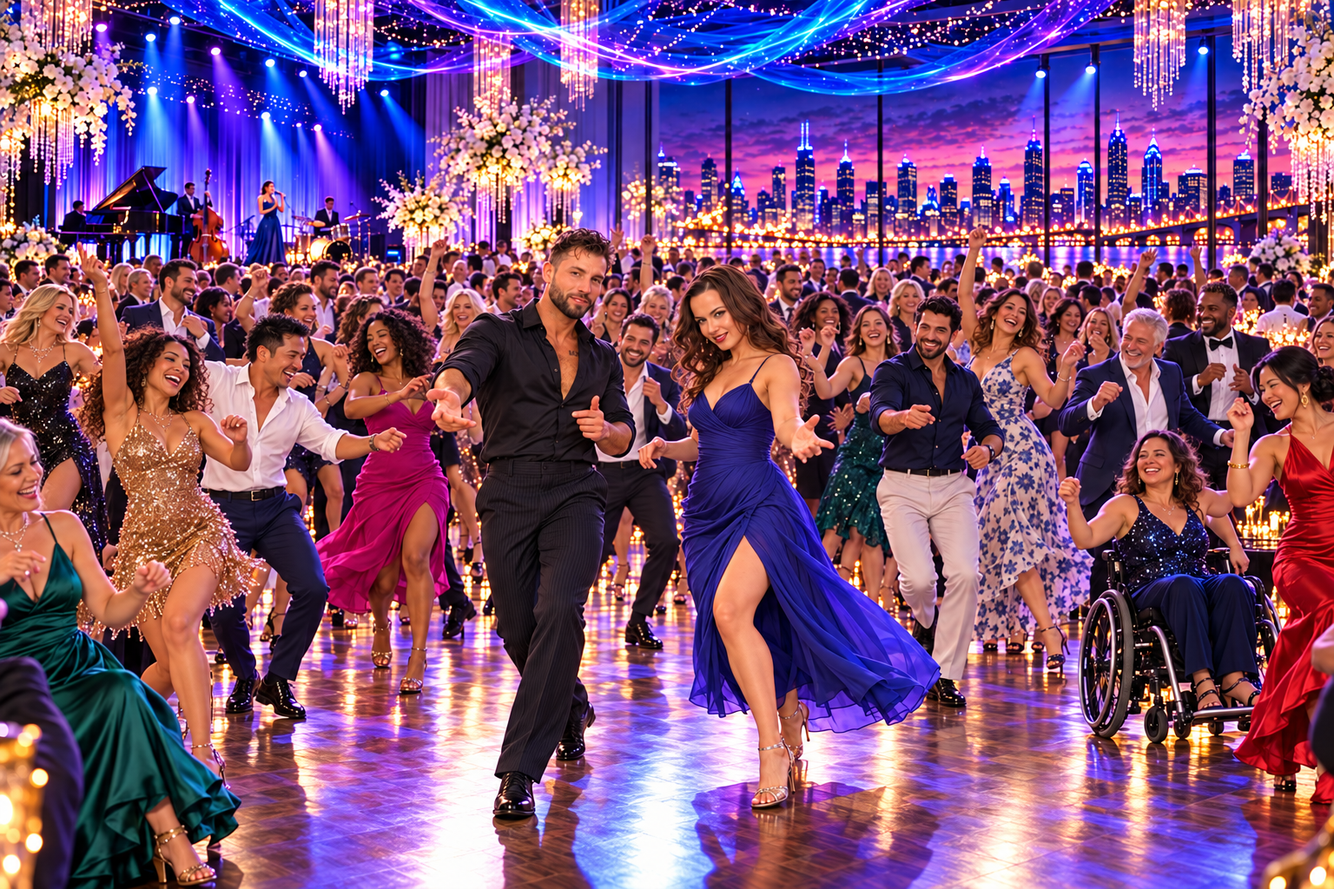
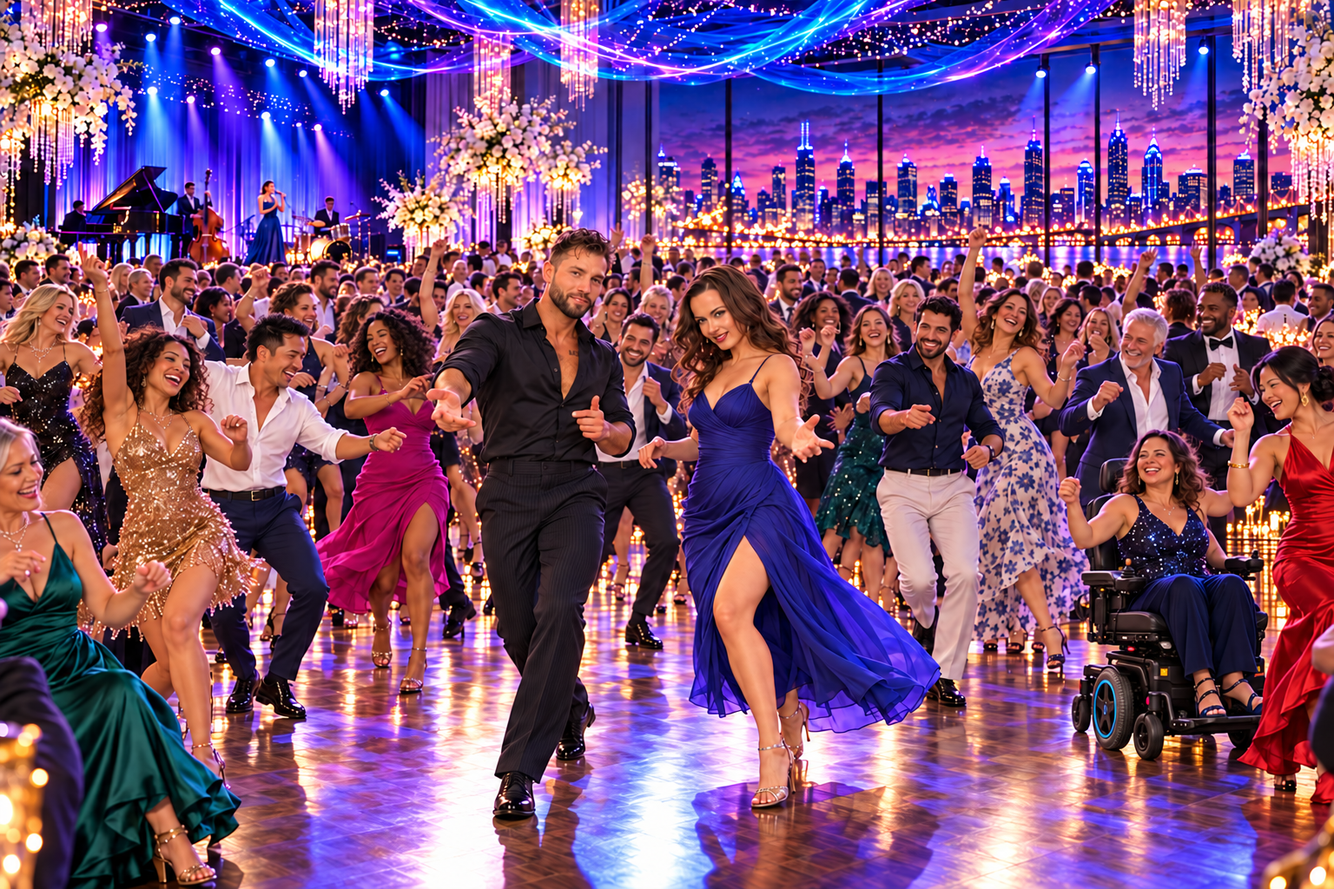
Replace section 6 dance party image
Claude-Session: https://claude.ai/code/session_01SDuMShRTmDhf1bS4TY8nhA

diff --git a/how-it-works.html b/how-it-works.html
@@ -1,1 +1,1 @@
-<!doctype html><html lang="en"><head><meta charset="utf-8"><meta name="viewport" content="width=device-width,initial-scale=1"><title>How It Works · Dancing to Beat ALS</title><style>*{box-sizing:border-box}html{scroll-behavior:smooth}body{margin:0;font:15px/1.65 'Segoe UI',sans-serif}main{max-width:1220px;margin:38px auto;padding:0 28px}.eyebrow{font-size:11px;letter-spacing:2px;font-weight:750}h1{font:clamp(34px,4vw,49px)/1.15 Georgia,serif;margin:12px 0 15px;max-width:850px}.flow-intro{max-width:800px;font-size:16px;color:#64708c}.flow-nav{display:grid;grid-template-columns:repeat(6,minmax(0,1fr));gap:12px;margin:28px 0 36px}.flow-nav a{font-size:12px;color:#47529e;text-decoration:none;border:1px solid #d4d9ef;background:#fff;border-radius:8px;padding:12px;display:flex;gap:8px;align-items:center}.flow-nav span,.flow-stage-label span{display:grid;place-items:center;width:26px;height:26px;flex-shrink:0;border-radius:50%;background:#ebeafd;color:#5543ad;font-weight:750}.flow-stage{display:grid;grid-template-columns:1fr 1.15fr;gap:36px;align-items:center;margin:25px 0 45px;padding-bottom:40px;border-bottom:1px solid #dce1f1;scroll-margin-top:20px}.flow-stage:nth-of-type(even) .flow-art{order:2}.flow-art{border-radius:13px;overflow:hidden;background:#101b3c;box-shadow:0 12px 35px #25346b18;line-height:0}.flow-art img{width:100%;aspect-ratio:3/2;object-fit:cover;display:block}.flow-stage-label{display:flex;align-items:center;gap:10px;font-size:11px;text-transform:uppercase;letter-spacing:1.3px;font-weight:750;color:#6543b2}.flow-copy h2{font:30px/1.2 Georgia,serif;margin:12px 0}.flow-copy p,.flow-copy li{font-size:14px;color:#52617e}.flow-copy ul{padding-left:20px}.flow-copy li{margin:7px 0}.flow-copy .flow-small{font-size:12px;color:#64708c}.flow-link{font-weight:650;font-size:13px}.proposal{display:inline-block;background:#f5ecfa;color:#674186!important;border:1px solid #e5d6ef;padding:5px 10px;border-radius:6px;font-size:11px!important}.flow-cta{padding:26px;border-radius:12px;background:linear-gradient(110deg,#15275c,#55318e);color:white;margin:25px 0}.flow-cta h2{color:white;font:29px Georgia,serif;margin:0 0 12px}.flow-cta a{display:inline-block;background:#fff;color:#3449a9;text-decoration:none;border-radius:6px;padding:10px 18px;font-size:13px;font-weight:650;margin:5px 10px 5px 0}footer{font-size:11px;color:#64708c;margin:25px 0}@media(max-width:850px){.flow-nav{grid-template-columns:repeat(2,1fr)}.flow-stage{grid-template-columns:1fr;gap:22px}.flow-stage:nth-of-type(even) .flow-art{order:0}.flow-art img{max-height:370px}.flow-copy h2{font-size:27px}}@media(prefers-reduced-motion:reduce){html{scroll-behavior:auto}}.showcase-panel{display:grid;grid-template-columns:1.4fr 1fr;gap:28px;align-items:center;padding:25px;border:1px solid #d1d7ef;background:linear-gradient(125deg,#edf1ff,#f6edfc);border-radius:14px;margin:15px 0 45px}.showcase-image{border-radius:10px;overflow:hidden;line-height:0;box-shadow:0 10px 30px #25346b18}.showcase-image img{width:100%;height:auto;display:block}.showcase-copy h2{font:30px/1.2 Georgia,serif;margin:12px 0}.showcase-copy>p{font-size:14px;color:#52617e}.showcase-copy .flow-small{font-size:11px;color:#64708c}.showcase-copy .eyebrow{font-size:10px}.showcase-screen{background:#101c49;color:#fff;border-radius:8px;padding:16px;margin-top:16px}.showcase-screen span{display:block;font-size:10px;text-transform:uppercase;letter-spacing:1px;color:#b4c7ff}.showcase-screen strong{display:block;font:23px Georgia,serif;margin:5px 0}.showcase-screen p{font-size:12px;color:#e1e7ff;margin:5px 0}@media(max-width:850px){.showcase-panel{grid-template-columns:1fr;padding:18px}}</style><link rel="stylesheet" href="theme.css?v=electric-palette-v5"><link rel="stylesheet" href="tickets.css?v=2"><script src="review-data.js"></script></head><body><header><img class="event-banner" src="event-header.png?v=panoramic-v2" alt="Dancing to Beat ALS — ballroom couple with electric blue and purple light trails and a glowing city skyline"><div class="header-bar"><div class="brand">DANCING TO BEAT ALS<small>MOVE TOGETHER. MAKE A DIFFERENCE.</small></div><a href="home.html">Home</a><a href="registration.html">Register a Team</a><a href="donate.html">Donate</a><a href="faq.html">FAQ</a><a href="about.html">About</a><a href="tickets.html">Tickets &amp; Tables</a></div></header><main><div class="eyebrow">FROM YOUR FIRST FUNDRAISER TO THE FINAL BOW.</div><h1>A shared purpose.<br>A journey to the dance floor.</h1><p class="flow-intro">Dancing to Beat ALS starts long before gala night. Follow the journey from building a team and rallying supporters to preparing finalists, celebrating together, and ending the night on the dance floor.</p><nav class="flow-nav" aria-label="Event stages"><a href="#fundraising"><span>1</span>Team fundraising</a><a href="#selection"><span>2</span>Finalist selection</a><a href="#training"><span>3</span>Finalist training</a><a href="#gala"><span>4</span>Dancing to Beat ALS Gala</a><a href="#competition"><span>5</span>Dance competition &amp; awards</a><a href="#dance-party"><span>6</span>Group lesson &amp; dance party</a></nav><section class="flow-stage" id="fundraising"><div class="flow-art"><img src="flow-fundraising.png" alt="Team members gathering around a laptop to rally support for their ALS fundraiser" loading="lazy"></div><div class="flow-copy"><div class="flow-stage-label"><span>1</span>Team fundraising</div><h2>Pick your beneficiary. Form your team. Rally your people.</h2><p>Choose your Team Sponsor, introduce your dancing candidate, and select an ALS beneficiary. Set your fundraising goal and invite friends, family, colleagues, and your wider community to get involved.</p><ul><li>Your sponsor determines your division: Enterprise, Discovery, Reach, or Grassroots.</li><li>Choose Team Entry or the Team &amp; Gala Package where available.</li><li>Team-raised gifts are designated to support the team’s chosen ALS beneficiary and are granted under the Foundation’s grant policy. Any fees will be disclosed before launch. Dance Card fees and table upgrades do not count toward fundraising.</li></ul><a class="flow-link" href="registration.html">Start your team →</a></div></section><section class="flow-stage" id="selection"><div class="flow-art"><img src="flow-selection.png?v=3" alt="A host presenting a finalist selection screen of division-leading teams and fundraising totals, beside a clear box of Draw entries" loading="lazy"></div><div class="flow-copy"><div class="flow-stage-label"><span>2</span>Finalist selection</div><h2>Eight dancers selected to compete.</h2><p>After 12 weeks of fundraising, eight teams earn a place in the gala-night ballroom competition. Each finalist’s dancer partners with a professional.</p><ul><li><strong>4 Division Champions:</strong> the top fundraiser in each division</li><li><strong>3 Draw winners:</strong> teams earn Draw entries by hitting fundraising milestones</li><li><strong>1 Catalyst’s Choice:</strong> a high-impact team or community member, selected by the organizing committee</li></ul><p class="proposal">Proposed format · pending confirmation and legal review</p><a class="flow-link" href="faq.html">Explore selection questions →</a></div></section><section class="flow-stage" id="training"><div class="flow-art"><img src="flow-training.png" alt="A coach helping dancers rehearse, with inclusive partner practice in the background" loading="lazy"></div><div class="flow-copy"><div class="flow-stage-label"><span>3</span>Finalist training</div><h2>From first lesson to gala night.</h2><p style="font:italic 18px/1.4 Georgia,serif;color:#6345ad;margin:-4px 0 12px">Turn your courage into confidence.</p><p>Each finalist dancer is paired with a professional dance trainer, arranged by the event organizers. Over about eight weeks of lessons and rehearsals, they learn a routine together and get ready to perform it at the gala.</p><ul><li>No dance experience needed</li><li>Training adapted to every ability and experience level</li><li>Planned with accessibility in mind</li></ul><p class="proposal">Training schedule and details to be announced</p></div></section><section class="flow-stage" id="gala"><div class="flow-art"><img src="flow-gala.png?v=2" alt="A guest in a power wheelchair shares his story on stage at the gala, shown on a large screen about AI assistive technology, as hosts and a seated audience look on" loading="lazy"></div><div class="flow-copy"><div class="flow-stage-label"><span>4</span>Dancing to Beat ALS Gala</div><h2>One night. The whole ALS community.</h2><p>People living with ALS, families and caregivers, researchers and clinicians, advocates, businesses and neighbors come together for one unforgettable evening.</p><ul><li>Moving and entertaining stories from across the ALS community, shared in short vignettes throughout the night</li><li>Every team present takes the floor: in the Grand Promenade, the showcase group dance or the competition</li><li>A livestream is planned so supporters everywhere can join in</li></ul><p class="flow-small">Event date, venue and running order will be announced.</p><a class="flow-link" href="faq.html">Tickets, seating and showcase questions →</a></div></section><section class="showcase-panel" id="on-the-dance-floor"><div class="showcase-image"><a href="flow-showcase.png" target="_blank" rel="noopener" aria-label="View the gala dance-floor illustration at full size"><img src="flow-showcase.png" loading="lazy" alt="Gala group number with two featured couples in the center, surrounding dancers, a team spotlight screen above the stage, and television cameras around the floor"></a></div><div class="showcase-copy"><div class="eyebrow">ON THE DANCE FLOOR · ON THE NATIONAL STAGE</div><h2>Every team has a moment.</h2><p>A group number brings the floor to life, while featured couples take center stage. The screen tells the story behind the dance: the team, the dancer, the beneficiary, and the funds raised.</p><p>We’re planning a livestream so supporters everywhere can share the performances and the energy of the gala.</p><div class="showcase-screen"><span>Illustrative team spotlight</span><strong>Hope in Motion</strong><p>Dancer: Maya Bennett<br>Beneficiary: ALS Catalyst Foundation<br>Amount raised: $27,500</p></div><p class="flow-small">Fictitious team and fundraising amount shown for illustration. Production, choreography, and the final running order will be confirmed.</p></div></section><section class="flow-stage" id="competition"><div class="flow-art"><img src="flow-competition.png?v=2" alt="A ballroom couple dancing under blue and purple lights while judges hold up score paddles and the gala audience applauds" loading="lazy"></div><div class="flow-copy"><div class="flow-stage-label"><span>5</span>Dance competition & awards</div><h2>Fun, friendly and full of heart.</h2><p style="font:italic 18px/1.4 Georgia,serif;color:#6345ad;margin:-4px 0 12px">For one night, ALS doesn’t set the tempo. We do.</p><p>Eight finalists take the floor with their professional partners in a friendly, entertaining ballroom competition. Every routine celebrates the dancer, the team behind them and the ALS community they’re dancing for.</p><p>Celebrity judge Allen Genkin, who competed on <em>Dancing with the Stars: The Next Pro</em>, will be on the panel.</p><p class="proposal">Additional judges to be announced</p><a class="flow-link" href="faq.html">Competition questions →</a></div></section><section class="flow-stage" id="dance-party"><div class="flow-art"><img src="flow-dance-party.png?v=2" alt="Two dance instructors leading a crowded ballroom of smiling gala guests, including a guest dancing in a wheelchair, with a live band and city skyline behind them" loading="lazy"></div><div class="flow-copy"><div class="flow-stage-label"><span>6</span>Group dance lesson &amp; dance party</div><h2>The night ends with everyone dancing.</h2><p>Now it’s your turn. A planned group dance lesson gets everyone moving, then the celebration keeps going with a dance party for all guests.</p><ul><li>Learn a few easy steps together, then make them your own.</li><li>Some guests will follow every move. Some will find their own rhythm. Everyone can enjoy the moment.</li><li>From cocktail dresses to shirtsleeves, the floor fills with gala guests smiling, laughing, and dancing together.</li></ul><p class="flow-small">No dance experience required. The final music, lesson format, accessibility arrangements, and timing will be confirmed. Image is an illustrative event visualization.</p><a class="flow-link" href="registration.html">Be part of the celebration →</a></div></section><section class="flow-cta"><h2>Ready to make your move?</h2><a href="tickets.html" data-open-tickets>Purchase Tickets →</a><a href="registration.html">Register a Team →</a><a href="donate.html">Make a Donation →</a><a href="faq.html">Frequently Asked Questions →</a></section><footer>Event overview · Unconfirmed dates, training arrangements, and proposed competition rules will be updated as details are finalized. Local mockup payments and emails are simulated.</footer></main><script src="tickets.js?v=3" defer></script><p style="text-align:center;padding:12px;font:12px sans-serif">Committee review mockup · Payments and emails are simulated. Test registrations stay in this browser.</p></body></html>
+<!doctype html><html lang="en"><head><meta charset="utf-8"><meta name="viewport" content="width=device-width,initial-scale=1"><title>How It Works · Dancing to Beat ALS</title><style>*{box-sizing:border-box}html{scroll-behavior:smooth}body{margin:0;font:15px/1.65 'Segoe UI',sans-serif}main{max-width:1220px;margin:38px auto;padding:0 28px}.eyebrow{font-size:11px;letter-spacing:2px;font-weight:750}h1{font:clamp(34px,4vw,49px)/1.15 Georgia,serif;margin:12px 0 15px;max-width:850px}.flow-intro{max-width:800px;font-size:16px;color:#64708c}.flow-nav{display:grid;grid-template-columns:repeat(6,minmax(0,1fr));gap:12px;margin:28px 0 36px}.flow-nav a{font-size:12px;color:#47529e;text-decoration:none;border:1px solid #d4d9ef;background:#fff;border-radius:8px;padding:12px;display:flex;gap:8px;align-items:center}.flow-nav span,.flow-stage-label span{display:grid;place-items:center;width:26px;height:26px;flex-shrink:0;border-radius:50%;background:#ebeafd;color:#5543ad;font-weight:750}.flow-stage{display:grid;grid-template-columns:1fr 1.15fr;gap:36px;align-items:center;margin:25px 0 45px;padding-bottom:40px;border-bottom:1px solid #dce1f1;scroll-margin-top:20px}.flow-stage:nth-of-type(even) .flow-art{order:2}.flow-art{border-radius:13px;overflow:hidden;background:#101b3c;box-shadow:0 12px 35px #25346b18;line-height:0}.flow-art img{width:100%;aspect-ratio:3/2;object-fit:cover;display:block}.flow-stage-label{display:flex;align-items:center;gap:10px;font-size:11px;text-transform:uppercase;letter-spacing:1.3px;font-weight:750;color:#6543b2}.flow-copy h2{font:30px/1.2 Georgia,serif;margin:12px 0}.flow-copy p,.flow-copy li{font-size:14px;color:#52617e}.flow-copy ul{padding-left:20px}.flow-copy li{margin:7px 0}.flow-copy .flow-small{font-size:12px;color:#64708c}.flow-link{font-weight:650;font-size:13px}.proposal{display:inline-block;background:#f5ecfa;color:#674186!important;border:1px solid #e5d6ef;padding:5px 10px;border-radius:6px;font-size:11px!important}.flow-cta{padding:26px;border-radius:12px;background:linear-gradient(110deg,#15275c,#55318e);color:white;margin:25px 0}.flow-cta h2{color:white;font:29px Georgia,serif;margin:0 0 12px}.flow-cta a{display:inline-block;background:#fff;color:#3449a9;text-decoration:none;border-radius:6px;padding:10px 18px;font-size:13px;font-weight:650;margin:5px 10px 5px 0}footer{font-size:11px;color:#64708c;margin:25px 0}@media(max-width:850px){.flow-nav{grid-template-columns:repeat(2,1fr)}.flow-stage{grid-template-columns:1fr;gap:22px}.flow-stage:nth-of-type(even) .flow-art{order:0}.flow-art img{max-height:370px}.flow-copy h2{font-size:27px}}@media(prefers-reduced-motion:reduce){html{scroll-behavior:auto}}.showcase-panel{display:grid;grid-template-columns:1.4fr 1fr;gap:28px;align-items:center;padding:25px;border:1px solid #d1d7ef;background:linear-gradient(125deg,#edf1ff,#f6edfc);border-radius:14px;margin:15px 0 45px}.showcase-image{border-radius:10px;overflow:hidden;line-height:0;box-shadow:0 10px 30px #25346b18}.showcase-image img{width:100%;height:auto;display:block}.showcase-copy h2{font:30px/1.2 Georgia,serif;margin:12px 0}.showcase-copy>p{font-size:14px;color:#52617e}.showcase-copy .flow-small{font-size:11px;color:#64708c}.showcase-copy .eyebrow{font-size:10px}.showcase-screen{background:#101c49;color:#fff;border-radius:8px;padding:16px;margin-top:16px}.showcase-screen span{display:block;font-size:10px;text-transform:uppercase;letter-spacing:1px;color:#b4c7ff}.showcase-screen strong{display:block;font:23px Georgia,serif;margin:5px 0}.showcase-screen p{font-size:12px;color:#e1e7ff;margin:5px 0}@media(max-width:850px){.showcase-panel{grid-template-columns:1fr;padding:18px}}</style><link rel="stylesheet" href="theme.css?v=electric-palette-v5"><link rel="stylesheet" href="tickets.css?v=2"><script src="review-data.js"></script></head><body><header><img class="event-banner" src="event-header.png?v=panoramic-v2" alt="Dancing to Beat ALS — ballroom couple with electric blue and purple light trails and a glowing city skyline"><div class="header-bar"><div class="brand">DANCING TO BEAT ALS<small>MOVE TOGETHER. MAKE A DIFFERENCE.</small></div><a href="home.html">Home</a><a href="registration.html">Register a Team</a><a href="donate.html">Donate</a><a href="faq.html">FAQ</a><a href="about.html">About</a><a href="tickets.html">Tickets &amp; Tables</a></div></header><main><div class="eyebrow">FROM YOUR FIRST FUNDRAISER TO THE FINAL BOW.</div><h1>A shared purpose.<br>A journey to the dance floor.</h1><p class="flow-intro">Dancing to Beat ALS starts long before gala night. Follow the journey from building a team and rallying supporters to preparing finalists, celebrating together, and ending the night on the dance floor.</p><nav class="flow-nav" aria-label="Event stages"><a href="#fundraising"><span>1</span>Team fundraising</a><a href="#selection"><span>2</span>Finalist selection</a><a href="#training"><span>3</span>Finalist training</a><a href="#gala"><span>4</span>Dancing to Beat ALS Gala</a><a href="#competition"><span>5</span>Dance competition &amp; awards</a><a href="#dance-party"><span>6</span>Group lesson &amp; dance party</a></nav><section class="flow-stage" id="fundraising"><div class="flow-art"><img src="flow-fundraising.png" alt="Team members gathering around a laptop to rally support for their ALS fundraiser" loading="lazy"></div><div class="flow-copy"><div class="flow-stage-label"><span>1</span>Team fundraising</div><h2>Pick your beneficiary. Form your team. Rally your people.</h2><p>Choose your Team Sponsor, introduce your dancing candidate, and select an ALS beneficiary. Set your fundraising goal and invite friends, family, colleagues, and your wider community to get involved.</p><ul><li>Your sponsor determines your division: Enterprise, Discovery, Reach, or Grassroots.</li><li>Choose Team Entry or the Team &amp; Gala Package where available.</li><li>Team-raised gifts are designated to support the team’s chosen ALS beneficiary and are granted under the Foundation’s grant policy. Any fees will be disclosed before launch. Dance Card fees and table upgrades do not count toward fundraising.</li></ul><a class="flow-link" href="registration.html">Start your team →</a></div></section><section class="flow-stage" id="selection"><div class="flow-art"><img src="flow-selection.png?v=3" alt="A host presenting a finalist selection screen of division-leading teams and fundraising totals, beside a clear box of Draw entries" loading="lazy"></div><div class="flow-copy"><div class="flow-stage-label"><span>2</span>Finalist selection</div><h2>Eight dancers selected to compete.</h2><p>After 12 weeks of fundraising, eight teams earn a place in the gala-night ballroom competition. Each finalist’s dancer partners with a professional.</p><ul><li><strong>4 Division Champions:</strong> the top fundraiser in each division</li><li><strong>3 Draw winners:</strong> teams earn Draw entries by hitting fundraising milestones</li><li><strong>1 Catalyst’s Choice:</strong> a high-impact team or community member, selected by the organizing committee</li></ul><p class="proposal">Proposed format · pending confirmation and legal review</p><a class="flow-link" href="faq.html">Explore selection questions →</a></div></section><section class="flow-stage" id="training"><div class="flow-art"><img src="flow-training.png" alt="A coach helping dancers rehearse, with inclusive partner practice in the background" loading="lazy"></div><div class="flow-copy"><div class="flow-stage-label"><span>3</span>Finalist training</div><h2>From first lesson to gala night.</h2><p style="font:italic 18px/1.4 Georgia,serif;color:#6345ad;margin:-4px 0 12px">Turn your courage into confidence.</p><p>Each finalist dancer is paired with a professional dance trainer, arranged by the event organizers. Over about eight weeks of lessons and rehearsals, they learn a routine together and get ready to perform it at the gala.</p><ul><li>No dance experience needed</li><li>Training adapted to every ability and experience level</li><li>Planned with accessibility in mind</li></ul><p class="proposal">Training schedule and details to be announced</p></div></section><section class="flow-stage" id="gala"><div class="flow-art"><img src="flow-gala.png?v=2" alt="A guest in a power wheelchair shares his story on stage at the gala, shown on a large screen about AI assistive technology, as hosts and a seated audience look on" loading="lazy"></div><div class="flow-copy"><div class="flow-stage-label"><span>4</span>Dancing to Beat ALS Gala</div><h2>One night. The whole ALS community.</h2><p>People living with ALS, families and caregivers, researchers and clinicians, advocates, businesses and neighbors come together for one unforgettable evening.</p><ul><li>Moving and entertaining stories from across the ALS community, shared in short vignettes throughout the night</li><li>Every team present takes the floor: in the Grand Promenade, the showcase group dance or the competition</li><li>A livestream is planned so supporters everywhere can join in</li></ul><p class="flow-small">Event date, venue and running order will be announced.</p><a class="flow-link" href="faq.html">Tickets, seating and showcase questions →</a></div></section><section class="showcase-panel" id="on-the-dance-floor"><div class="showcase-image"><a href="flow-showcase.png" target="_blank" rel="noopener" aria-label="View the gala dance-floor illustration at full size"><img src="flow-showcase.png" loading="lazy" alt="Gala group number with two featured couples in the center, surrounding dancers, a team spotlight screen above the stage, and television cameras around the floor"></a></div><div class="showcase-copy"><div class="eyebrow">ON THE DANCE FLOOR · ON THE NATIONAL STAGE</div><h2>Every team has a moment.</h2><p>A group number brings the floor to life, while featured couples take center stage. The screen tells the story behind the dance: the team, the dancer, the beneficiary, and the funds raised.</p><p>We’re planning a livestream so supporters everywhere can share the performances and the energy of the gala.</p><div class="showcase-screen"><span>Illustrative team spotlight</span><strong>Hope in Motion</strong><p>Dancer: Maya Bennett<br>Beneficiary: ALS Catalyst Foundation<br>Amount raised: $27,500</p></div><p class="flow-small">Fictitious team and fundraising amount shown for illustration. Production, choreography, and the final running order will be confirmed.</p></div></section><section class="flow-stage" id="competition"><div class="flow-art"><img src="flow-competition.png?v=2" alt="A ballroom couple dancing under blue and purple lights while judges hold up score paddles and the gala audience applauds" loading="lazy"></div><div class="flow-copy"><div class="flow-stage-label"><span>5</span>Dance competition & awards</div><h2>Fun, friendly and full of heart.</h2><p style="font:italic 18px/1.4 Georgia,serif;color:#6345ad;margin:-4px 0 12px">For one night, ALS doesn’t set the tempo. We do.</p><p>Eight finalists take the floor with their professional partners in a friendly, entertaining ballroom competition. Every routine celebrates the dancer, the team behind them and the ALS community they’re dancing for.</p><p>Celebrity judge Allen Genkin, who competed on <em>Dancing with the Stars: The Next Pro</em>, will be on the panel.</p><p class="proposal">Additional judges to be announced</p><a class="flow-link" href="faq.html">Competition questions →</a></div></section><section class="flow-stage" id="dance-party"><div class="flow-art"><img src="flow-dance-party.png?v=3" alt="Two dance instructors leading a crowded ballroom of smiling gala guests, including a guest dancing in a power wheelchair, with a live band and city skyline behind them" loading="lazy"></div><div class="flow-copy"><div class="flow-stage-label"><span>6</span>Group dance lesson &amp; dance party</div><h2>The night ends with everyone dancing.</h2><p>Now it’s your turn. A planned group dance lesson gets everyone moving, then the celebration keeps going with a dance party for all guests.</p><ul><li>Learn a few easy steps together, then make them your own.</li><li>Some guests will follow every move. Some will find their own rhythm. Everyone can enjoy the moment.</li><li>From cocktail dresses to shirtsleeves, the floor fills with gala guests smiling, laughing, and dancing together.</li></ul><p class="flow-small">No dance experience required. The final music, lesson format, accessibility arrangements, and timing will be confirmed. Image is an illustrative event visualization.</p><a class="flow-link" href="registration.html">Be part of the celebration →</a></div></section><section class="flow-cta"><h2>Ready to make your move?</h2><a href="tickets.html" data-open-tickets>Purchase Tickets →</a><a href="registration.html">Register a Team →</a><a href="donate.html">Make a Donation →</a><a href="faq.html">Frequently Asked Questions →</a></section><footer>Event overview · Unconfirmed dates, training arrangements, and proposed competition rules will be updated as details are finalized. Local mockup payments and emails are simulated.</footer></main><script src="tickets.js?v=3" defer></script><p style="text-align:center;padding:12px;font:12px sans-serif">Committee review mockup · Payments and emails are simulated. Test registrations stay in this browser.</p></body></html>
